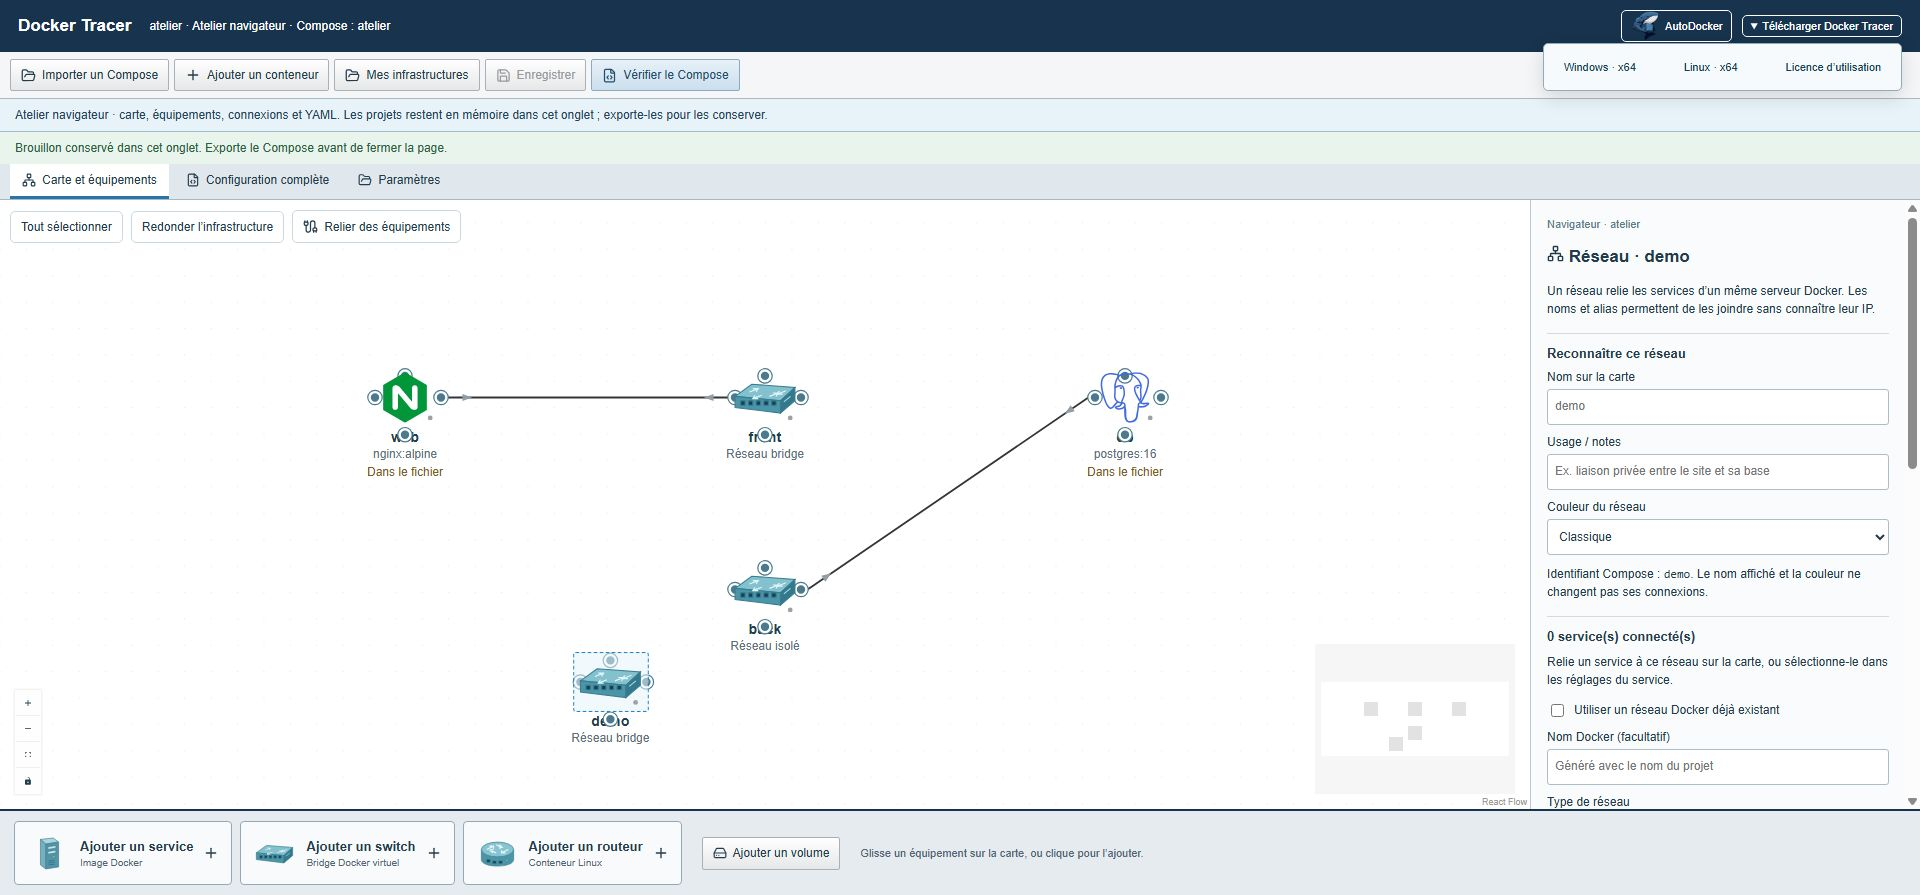
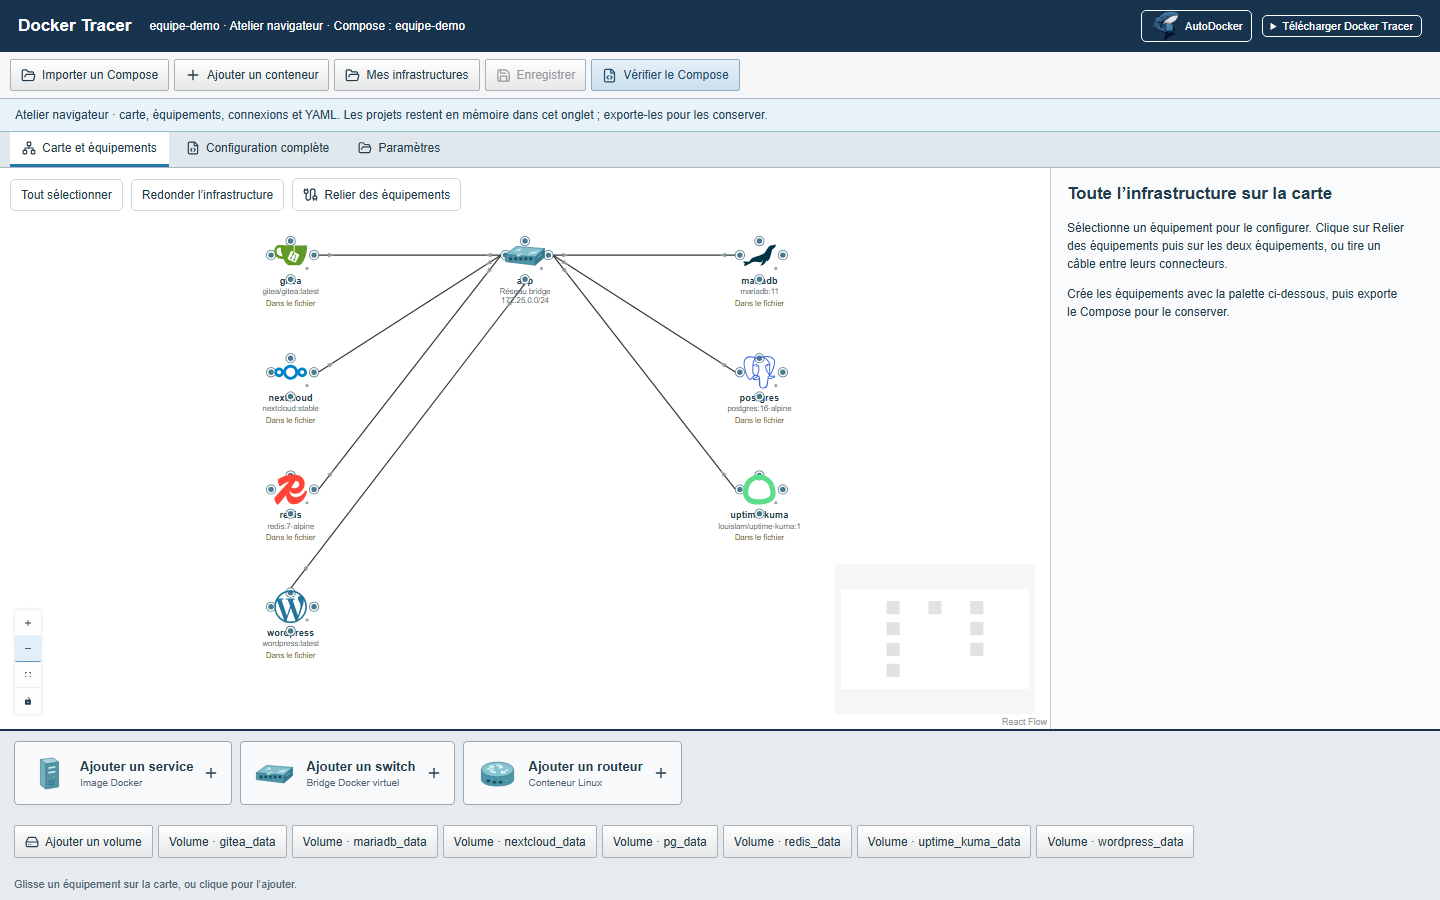
docs: clarify README and add visual demonstrations

diff --git a/README.md b/README.md
@@ -1,61 +1,75 @@
+<div align="center">
+
+<img src="src/assets/autodocker-logo.png" alt="Logo de la famille AutoDocker" width="200">
+
 # Docker Tracer
 
-<img src="src/assets/autodocker-logo.png" alt="Logo AutoDocker" width="180">
+**Explorer et faire évoluer une infrastructure Docker depuis une carte.**
 
-**Visualiser, maintenir et faire évoluer une infrastructure Docker depuis une carte.** Docker Tracer ouvre les services, réseaux et volumes d'un projet Compose, puis propose des outils locaux pour consulter l'état réel des conteneurs, travailler sur les fichiers, diagnostiquer et préparer des changements. Il complète [AutoDocker](https://github.com/caroneloham/autodocker), qui aide à créer l'infrastructure initiale.
+Importez votre Compose, retrouvez ses services et ses réseaux, puis travaillez sur sa configuration.
 
-## Essayer ou installer
+[![Essayer en ligne](https://img.shields.io/badge/Essayer_en_ligne-2864D9?style=for-the-badge)](https://autodocker.eu/essai/tracer/)
+[![Télécharger Windows x64](https://img.shields.io/badge/Windows_x64-142641?style=for-the-badge)](https://github.com/caroneloham/docker-tracer/releases/download/v0.12.2/Docker-Tracer-0.12.2-Windows-x64.zip)
+[![Télécharger Linux x64](https://img.shields.io/badge/Linux_x64-142641?style=for-the-badge)](https://github.com/caroneloham/docker-tracer/releases/download/v0.12.2/Docker-Tracer-0.12.2-Linux-x64.tar.gz)
 
-| Parcours | Ce que vous pouvez faire | Prérequis |
-| --- | --- | --- |
-| [Atelier navigateur sur autodocker.eu](https://autodocker.eu/essai/tracer/) | Importer un Compose, l'éditer sur la carte et exporter le résultat. Les projets vivent en mémoire dans l'onglet. | Un navigateur, sans compte. |
-| [Application locale Windows ou Linux](https://github.com/caroneloham/docker-tracer/releases) | Utiliser la carte complète avec un Docker Engine local ou un hôte Linux distant par SSH : état réel, terminal, fichiers, captures et application de changements après aperçu. | Windows x64 ou Linux x64 ; Docker pour les opérations sur les conteneurs. |
+Version **0.12.2 · Bêta** · [Toutes les versions](https://github.com/caroneloham/docker-tracer/releases) · [Documentation](#documentation)
 
-L'atelier navigateur utilise l'éditeur Docker Tracer, mais **ne contacte aucun moteur Docker**. Il n'exécute ni commande, ni capture réseau, ni déploiement. L'import Compose reste dans la mémoire de l'onglet ; il n'est pas conservé après sa fermeture. Les références externes d'un Compose (`include`, `extends`, `.env`, `env_file`) ne sont pas automatiquement chargées depuis votre disque.
+</div>
 
-Pour l'application locale, téléchargez l'archive adaptée dans les [releases](https://github.com/caroneloham/docker-tracer/releases), extrayez-la entièrement, puis lancez `Docker-Tracer.cmd` sous Windows ou `./Lancer-Docker-Tracer.sh` sous Linux. Le runtime Node.js est inclus. Les instructions détaillées et le script d'arrêt sont dans le README de chaque archive. Le serveur reste sur `127.0.0.1:4310` et l'ouverture initiale active une session locale aléatoire ; ne partagez pas son URL d'accès.
+![Docker Tracer : services, réseaux et volumes d’un fichier Compose sur la carte](docs/assets/atelier.png)
 
-![Atelier Docker Tracer](docs/assets/atelier.png)
+## Ce que vous pouvez faire
 
-## Développer depuis les sources
+| Visualiser | Modifier | Diagnostiquer en local | Préparer les changements |
+| :--- | :--- | :--- | :--- |
+| Déposer un Compose et explorer ses services, réseaux et volumes. | Travailler sur la carte et le YAML, puis exporter le résultat. | Consulter les conteneurs, les journaux, le terminal et les fichiers sur un hôte connecté. | Examiner les modifications avant de les appliquer à votre installation Docker. |
 
-Node.js 24 est recommandé. Avec Docker Engine et Docker Compose, les fonctions locales peuvent agir sur votre environnement Docker : utilisez de préférence une machine ou un contexte de test.
+<details>
+<summary><strong>Voir une courte démonstration</strong></summary>
 
-```sh
-npm ci
-npm test
-npm run build
-npm start
-```
+![Extrait de démonstration : import d’un Compose et ouverture de la carte Docker Tracer](docs/assets/demo.gif)
 
-`npm start` affiche dans le terminal une adresse d'accès à usage local. Ouvrez **cette adresse complète** pour activer la session protégée. Le projet et les journaux locaux sont créés dans `data/`, ignoré par Git. Le mode de développement de l'interface se lance avec `npm run dev` ; il n'est pas destiné à être exposé à d'autres machines.
+</details>
 
-Pour compiler uniquement l'atelier statique du navigateur :
+## Choisir votre version
 
-```sh
-npm run build:browser
-```
+| Atelier dans le navigateur | Application locale |
+| :--- | :--- |
+| Importer, modifier et exporter un Compose depuis [autodocker.eu](https://autodocker.eu/essai/tracer/). | Utiliser l’atelier avec Docker local ou un hôte Linux distant par SSH. |
+| Le fichier reste en mémoire dans l’onglet. Exportez-le pour le conserver. | Accéder à l’état réel des conteneurs, aux journaux, aux fichiers et au terminal. |
+| La carte représente le Compose déclaré ; aucun moteur Docker n’est contacté. | Les opérations Docker demandent un moteur et les droits d’accès nécessaires. |
 
-Le résultat est dans `dist-browser/`. Le lecteur Compose plus restreint, conservé pour compatibilité, se construit avec `npm run build:viewer` dans `dist-viewer/`. Ces deux dossiers sont ignorés par Git.
+L’atelier navigateur n’exécute aucune commande ni aucun déploiement. Les fichiers externes référencés par `include`, `extends`, `.env` ou `env_file` ne sont pas chargés automatiquement depuis votre disque.
 
-Après `npm ci` et `npm run build`, les scripts de `packaging/` reproduisent les archives locales complètes à partir de ce dépôt :
+## Installer en local
 
-```powershell
-powershell -ExecutionPolicy Bypass -File packaging/build-package.ps1
-```
+| Windows x64 | Linux x64 |
+| :--- | :--- |
+| [Télécharger le ZIP](https://github.com/caroneloham/docker-tracer/releases/download/v0.12.2/Docker-Tracer-0.12.2-Windows-x64.zip), puis l’extraire entièrement. | [Télécharger l’archive](https://github.com/caroneloham/docker-tracer/releases/download/v0.12.2/Docker-Tracer-0.12.2-Linux-x64.tar.gz), puis l’extraire entièrement. |
+| Lancer **Docker-Tracer.cmd**. | Lancer `./Lancer-Docker-Tracer.sh` dans le dossier extrait. |
 
-```sh
-bash packaging/build-linux-package.sh
-```
+Node.js est inclus. Le lanceur ouvre le navigateur avec une session locale protégée ; conservez privée l’adresse d’accès. Les projets et journaux restent dans `data/` à côté de l’application. Le serveur écoute sur `127.0.0.1:4310`.
 
-Ils téléchargent le runtime officiel Node.js 24.14.0 et vérifient son SHA-256 ; les archives sont écrites dans `release/`. Le paquet Windows nécessite `npm` pour être construit, pas pour être utilisé. Le paquet Linux requiert `curl`, `tar`, `sha256sum`, `python3` et les outils usuels de compilation d'archive. Les deux paquets excluent les données locales et les fixtures de clés SSH de la dépendance `ssh2`.
+Les [instructions Windows](packaging/README.md) et [Linux](packaging/README-Linux.md) détaillent les prérequis et l’arrêt du serveur.
 
-## Périmètre et vérification
+## Deux projets complémentaires
 
-`npm test` couvre la logique et les API sans exiger de moteur Docker. Les tests d'intégration Docker portent le suffixe `.docker.integration.mjs` et demandent un moteur et, selon le scénario, des images ou un hôte SSH de test. La construction de l'interface et les tests unitaires ne démontrent pas à eux seuls la sûreté d'une mise en production. La redondance actuelle s'applique à certains services sur un même serveur ; elle ne remplace pas une haute disponibilité entre hôtes. Voir [VERIFICATION.md](VERIFICATION.md) pour le périmètre des contrôles et [la provenance des logos](src/assets/brands/README.md).
+**[AutoDocker](https://github.com/caroneloham/autodocker)** aide à créer l’infrastructure initiale. **Docker Tracer** aide à explorer et modifier une infrastructure existante. Vous pouvez passer le fichier Compose de l’un à l’autre.
 
-L'application locale dispose de fonctions puissantes d'administration Docker, de terminal et de fichiers. Ne publiez pas son port ni son API sur Internet. Vérifiez l'aperçu Compose et les sauvegardes avant d'appliquer des changements à une infrastructure réelle.
+## Documentation
 
-## Licence
+- [Développer, construire les archives et lancer les tests](docs/Developper.md).
+- [Périmètre des vérifications](VERIFICATION.md).
+- [Licences des composants tiers](THIRD_PARTY_NOTICES.txt) · [Provenance des logos](src/assets/brands/README.md).
 
-Le code propre à Docker Tracer est publié sous la [licence AutoDocker et Docker Tracer 1.0](LICENSE) : usage professionnel, modification et vente des infrastructures produites autorisés ; vente du logiciel ou d'un accès payant à ses fonctions interdite. Il s'agit d'une licence **source accessible**, et non d'une licence open source approuvée par l'OSI. Les composants et logos tiers conservent leurs propres conditions ; leurs attributions figurent dans [THIRD_PARTY_NOTICES.txt](THIRD_PARTY_NOTICES.txt) et dans le dossier des marques.
+Un problème ou une idée ? [Ouvrir une issue](https://github.com/caroneloham/docker-tracer/issues).
+
+## État du projet et licence
+
+Docker Tracer est en **bêta et encore en cours de finalisation**. En local, il peut agir sur Docker et sur des fichiers : vérifiez les aperçus et vos sauvegardes avant d’appliquer des changements. Ne publiez pas son port ni son API sur Internet. Les limites de validation sont détaillées dans la documentation.
+
+Le code est accessible sous la [licence AutoDocker et Docker Tracer 1.0](LICENSE). L’usage professionnel, les modifications et la vente des infrastructures produites sont permis selon ses conditions. La vente du logiciel ou d’un accès payant à ses fonctions est interdite. Cette licence n’est pas une licence open source approuvée par l’OSI. Les composants et logos tiers conservent leurs propres conditions.
+
+## Remerciements
+
+Merci à [IngéPLUS](https://inge-plus.fr/avr-2026-bourses-ia-bac3-ingeplus-accompagne-les-talents-de-bts-vers-les-metiers-de-lia/) pour son soutien financier à travers la bourse qui m’avait été accordée à l’époque.

diff --git a/docs/Developper.md b/docs/Developper.md
@@ -1,0 +1,41 @@
+# Développer et vérifier Docker Tracer
+
+[Retour au README](../README.md)
+
+
+Node.js 24 est recommandé. Avec Docker Engine et Docker Compose, les fonctions locales peuvent agir sur votre environnement Docker : utilisez de préférence une machine ou un contexte de test.
+
+```sh
+npm ci
+npm test
+npm run build
+npm start
+```
+
+`npm start` affiche dans le terminal une adresse d'accès à usage local. Ouvrez **cette adresse complète** pour activer la session protégée. Le projet et les journaux locaux sont créés dans `data/`, ignoré par Git. Le mode de développement de l'interface se lance avec `npm run dev` ; il n'est pas destiné à être exposé à d'autres machines.
+
+Pour compiler uniquement l'atelier statique du navigateur :
+
+```sh
+npm run build:browser
+```
+
+Le résultat est dans `dist-browser/`. Le lecteur Compose plus restreint, conservé pour compatibilité, se construit avec `npm run build:viewer` dans `dist-viewer/`. Ces deux dossiers sont ignorés par Git.
+
+Après `npm ci` et `npm run build`, les scripts de `packaging/` reproduisent les archives locales complètes à partir de ce dépôt :
+
+```powershell
+powershell -ExecutionPolicy Bypass -File packaging/build-package.ps1
+```
+
+```sh
+bash packaging/build-linux-package.sh
+```
+
+Ils téléchargent le runtime officiel Node.js 24.14.0 et vérifient son SHA-256 ; les archives sont écrites dans `release/`. Le paquet Windows nécessite `npm` pour être construit, pas pour être utilisé. Le paquet Linux requiert `curl`, `tar`, `sha256sum`, `python3` et les outils usuels de compilation d'archive. Les deux paquets excluent les données locales et les fixtures de clés SSH de la dépendance `ssh2`.
+
+## Périmètre et vérification
+
+`npm test` couvre la logique et les API sans exiger de moteur Docker. Les tests d'intégration Docker portent le suffixe `.docker.integration.mjs` et demandent un moteur et, selon le scénario, des images ou un hôte SSH de test. La construction de l'interface et les tests unitaires ne démontrent pas à eux seuls la sûreté d'une mise en production. La redondance actuelle s'applique à certains services sur un même serveur ; elle ne remplace pas une haute disponibilité entre hôtes. Voir [VERIFICATION.md](../VERIFICATION.md) pour le périmètre des contrôles et [la provenance des logos](../src/assets/brands/README.md).
+
+L'application locale dispose de fonctions puissantes d'administration Docker, de terminal et de fichiers. Ne publiez pas son port ni son API sur Internet. Vérifiez l'aperçu Compose et les sauvegardes avant d'appliquer des changements à une infrastructure réelle.
